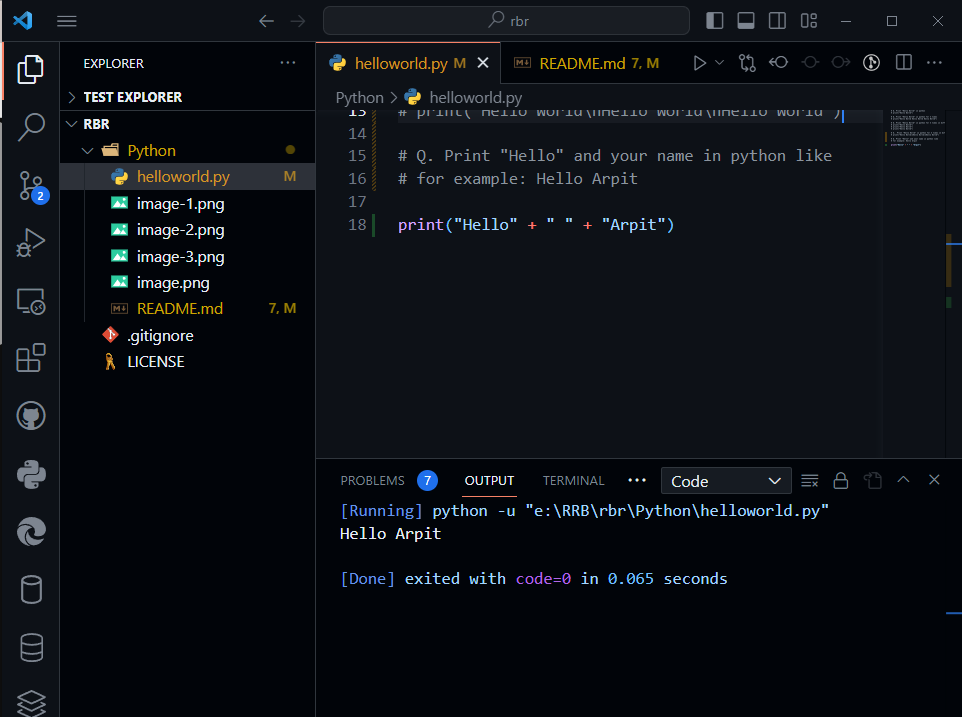
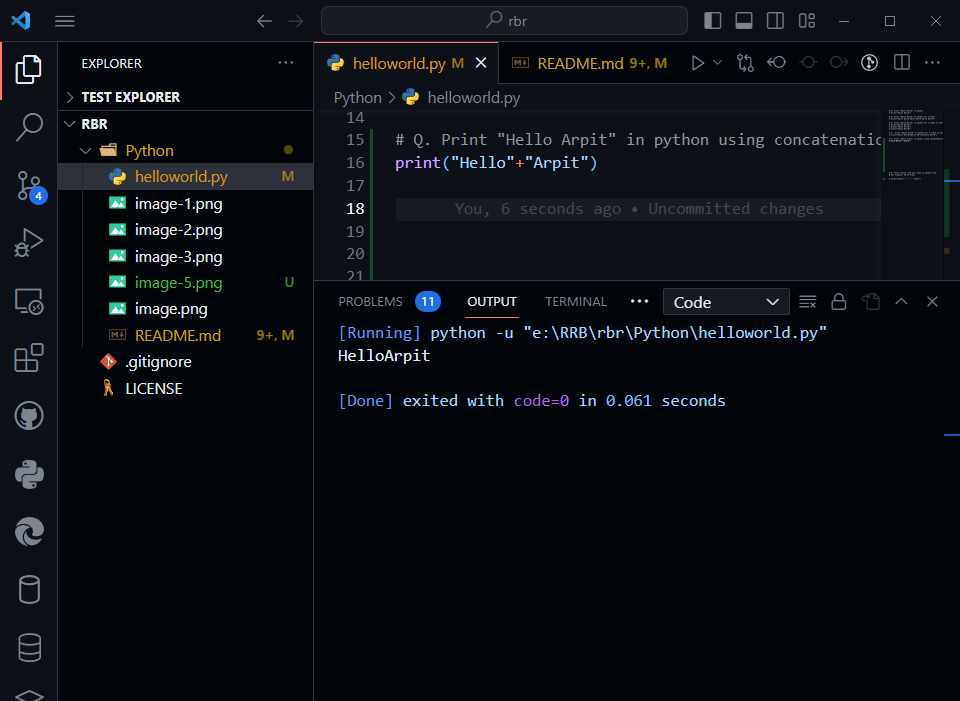
PRINT "Hello Arpit" in py using str concatenation

diff --git a/Python/helloworld.py b/Python/helloworld.py
@@ -12,7 +12,24 @@
 # Q.  Print "Hello World" in python for 3 times in different lines but writtent in single statement.
 # print("Hello World\nHello World\nHello World")
 
+# Q. Print "Hello Arpit" in python using concatenation
+print("Hello"+"Arpit")
+
+
+
+
+
+
+
+
+
+
+
+
+
+
+
 # Q. Print "Hello" and your name in python like
 # for example: Hello Arpit
 
-print("Hello" + " " + "Arpit")
+# print("Hello" + " " + "Arpit")

diff --git a/Python/README.md b/Python/README.md
@@ -1,3 +1,5 @@
+## String Manipulation
+
 **Print "Hello World" in Python**
 
 ```python
@@ -30,9 +32,17 @@ print("Hello World\nHello World\nHello World")
 
 ![Alt text](image-3.png)
 
+**Print "Hello Arpit" in python using concatenation**
+
+```python
+print("Hello"+"Arpit")
+```
+![Alt text](image-4.png)
+
+
 **Print "Hello" and your name in python like for example: Hello Arpit**
 
 ```python
 print("Hello" + " " + "Arpit")
 ```
-![Alt text](image-4.png)
+![Alt text](image-5.png)
